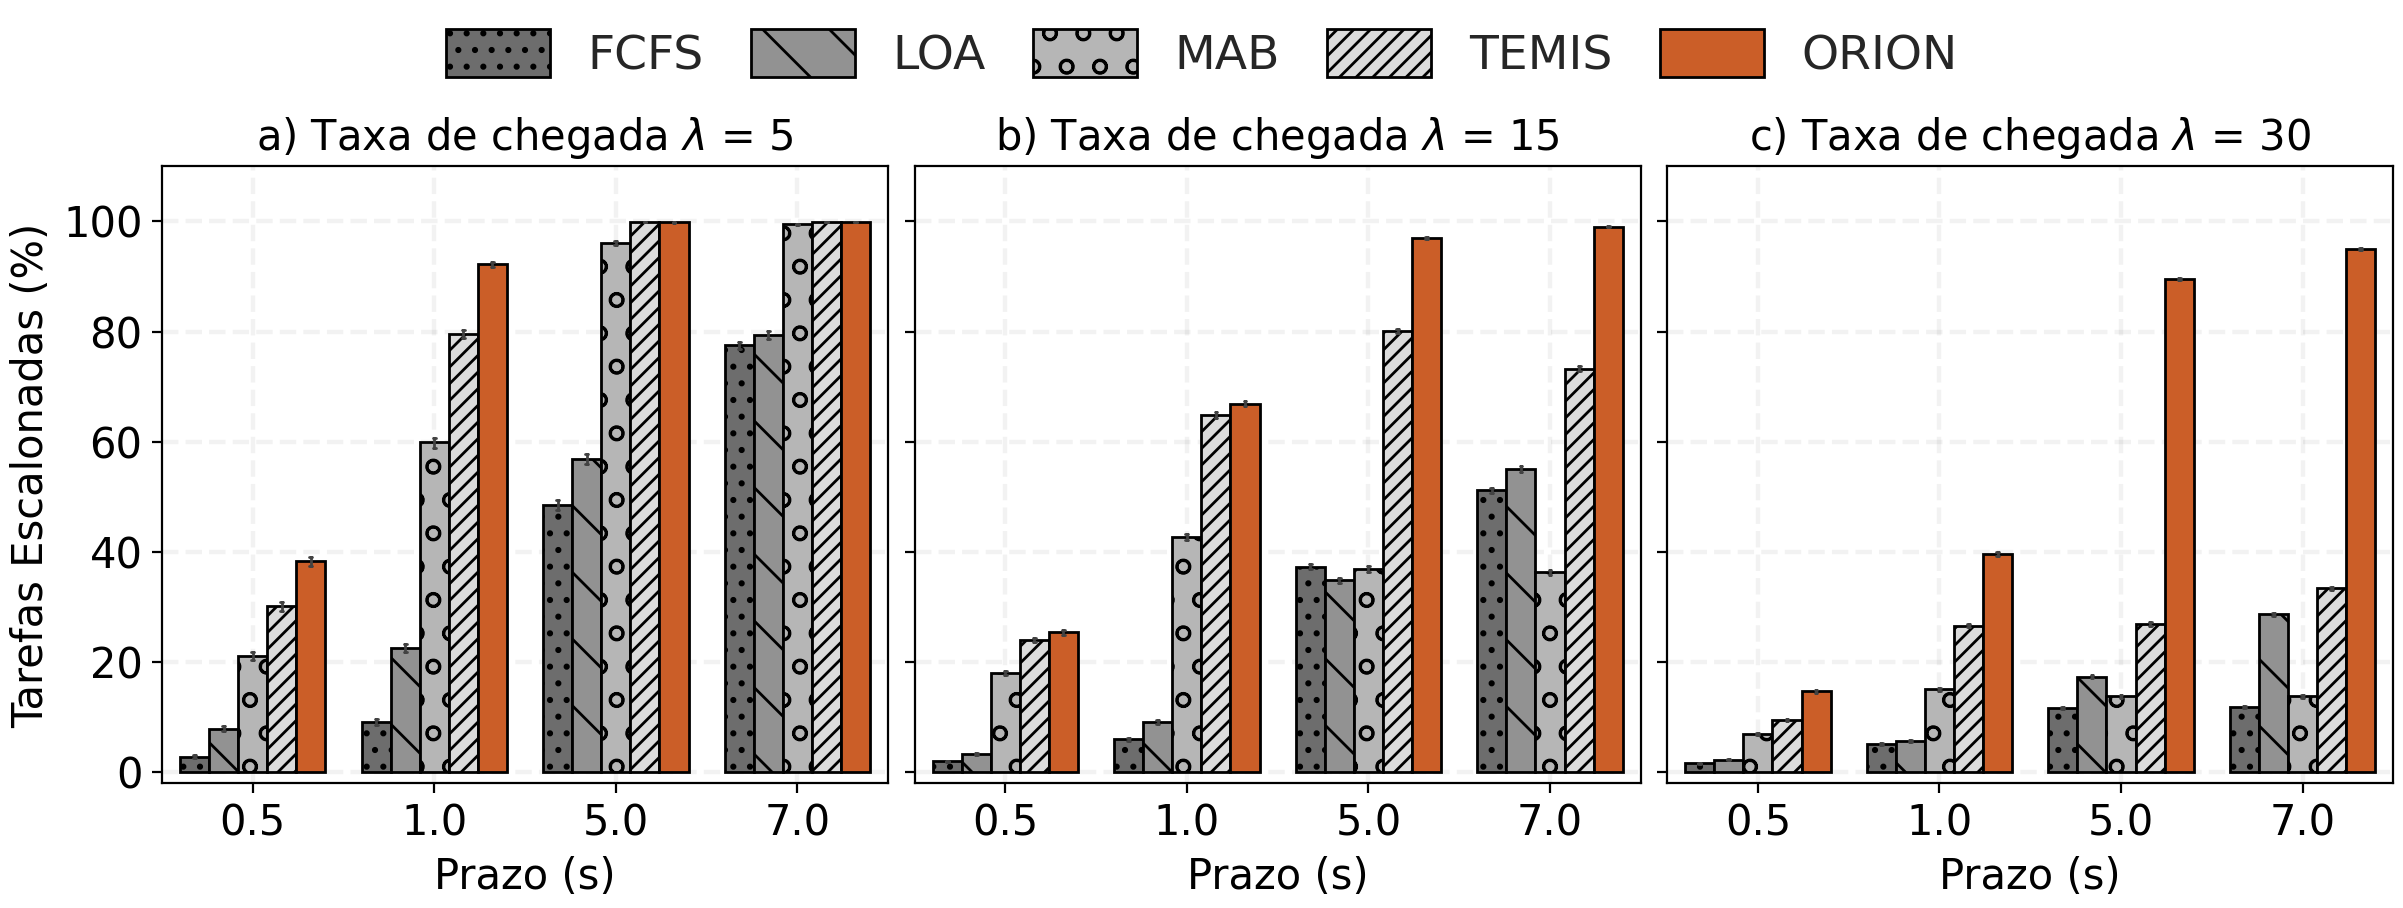
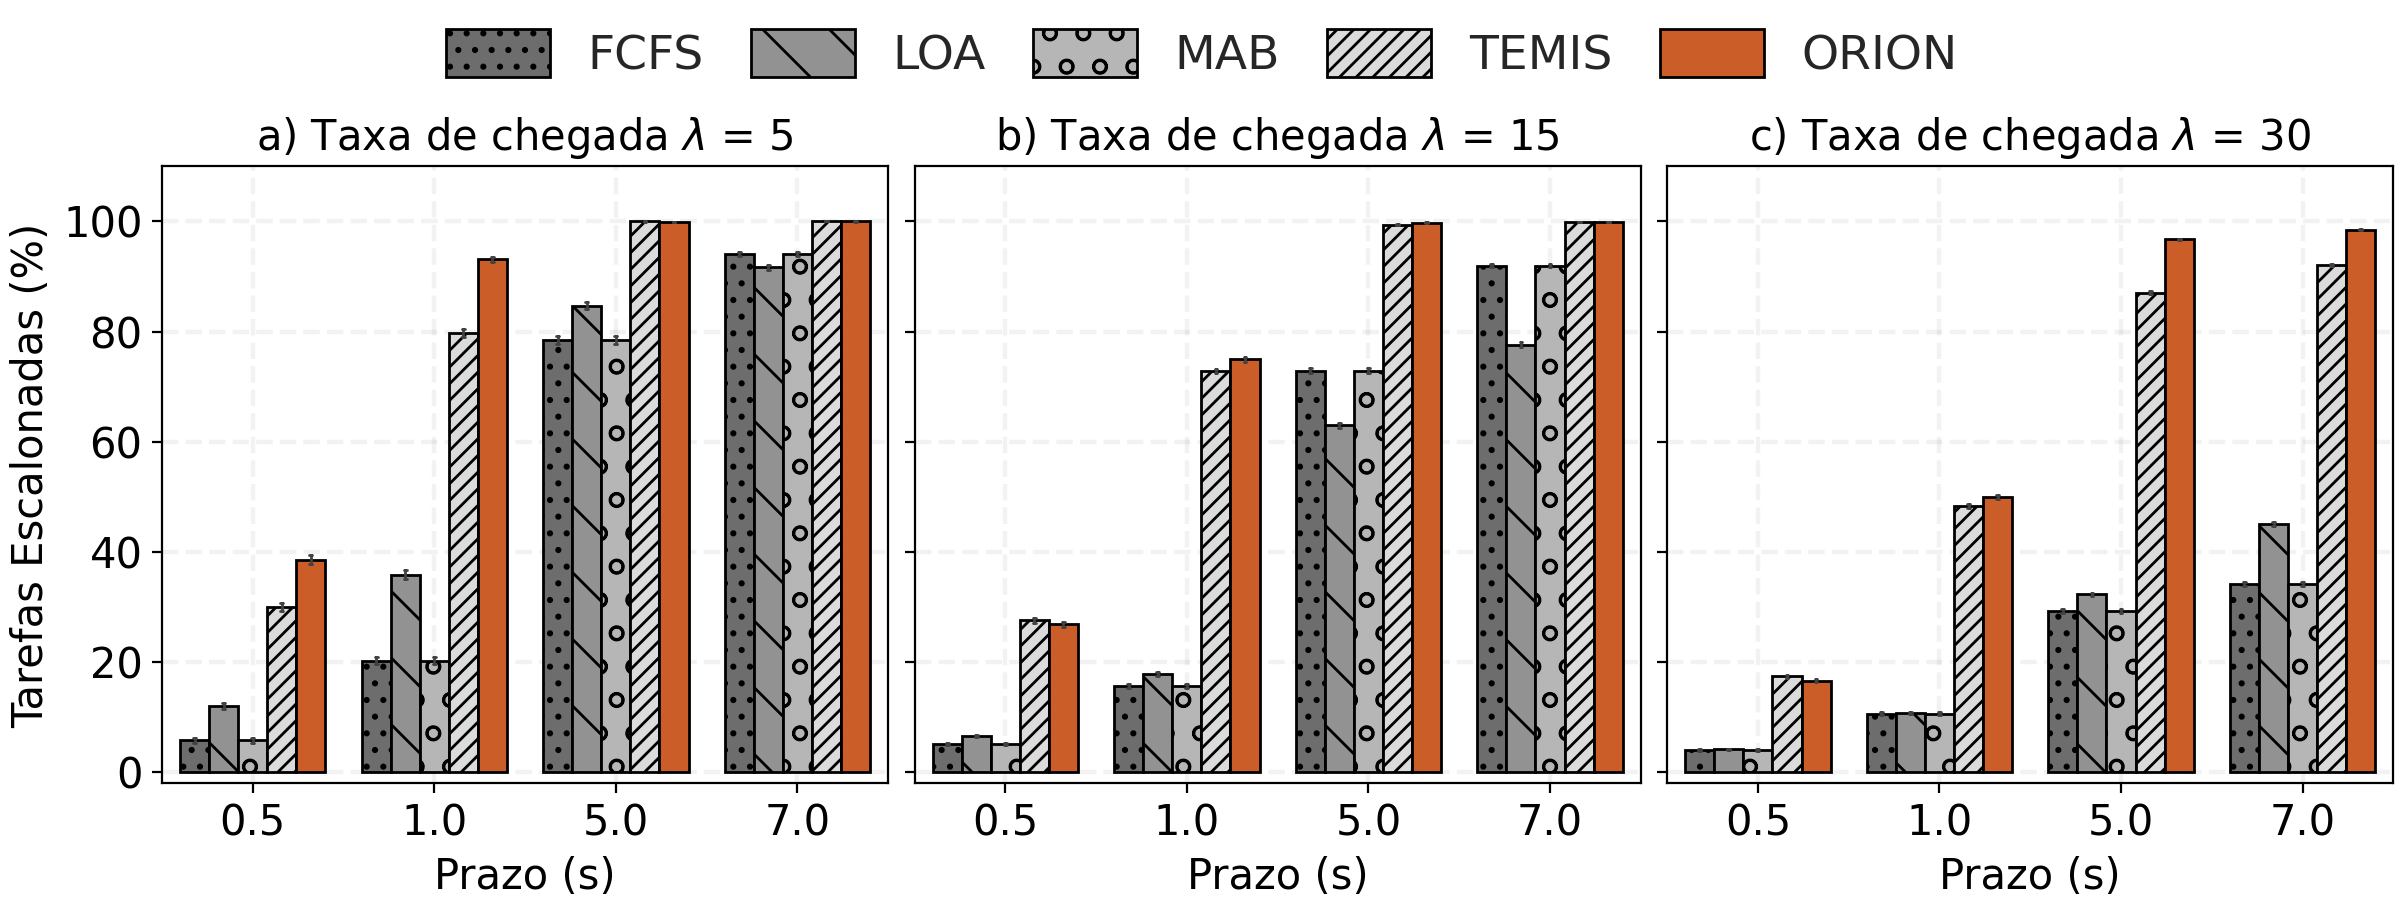
fix: result[id_nuvem] = {} and clouds.update()

diff --git a/system/src/scheduler/TEMIS.py b/system/src/scheduler/TEMIS.py
@@ -129,7 +129,6 @@ def process_tasks(sorted_clouds, tasks_k, tasks, clouds, queue, index):
 			id_nuvem, atualiza_valor = select_item_with_rejection(items, probabilities)
 			clouds.probabilities[id_nuvem] = atualiza_valor
 			# id_nuvem = sorted_clouds[cloud]
-			result[id_nuvem] = {}
 
 			cloud_capacity = local_clouds[id_nuvem]
 			local_result = {}
@@ -162,6 +161,8 @@ def process_tasks(sorted_clouds, tasks_k, tasks, clouds, queue, index):
 			local_result = bincovering.first_fit_decreasing_algorithm(local_pareto_to_bcp, local_tasks_deadline, local_clouds[id_nuvem])
 				
 			if len(local_result) > 0:
+
+				result[id_nuvem] = {}
 
 				# print("LOCAL RESULT")
 				# print(local_result)

diff --git a/system/src/scheduler/LOA.py b/system/src/scheduler/LOA.py
@@ -31,7 +31,6 @@ def run(queue, clouds, tasks):
     for cloud in range(len(sorted_clouds)):
         if len(local_tasks) > 0:
             id_nuvem = sorted_clouds[cloud]
-            result[id_nuvem] = {}
 
             cloud_capacity = local_clouds[id_nuvem]
             local_result = {}
@@ -57,6 +56,9 @@ def run(queue, clouds, tasks):
                     break
 
             if len(local_result) > 0:
+
+                result[id_nuvem] = {}
+
                 processing = management.get_processing_time(local_clouds[id_nuvem], tasks, local_result)
                 for task in processing:
                     local_result[task] = processing[task]

diff --git a/system/src/scheduler/PSO.py b/system/src/scheduler/PSO.py
@@ -33,7 +33,6 @@ def run(queue, clouds, tasks):
         if len(local_tasks) > 0:
 
             id_nuvem = sorted_clouds[cloud]
-            result[id_nuvem] = {}
 
             cloud_capacity = local_clouds[id_nuvem]
             local_result = {}
@@ -62,6 +61,8 @@ def run(queue, clouds, tasks):
             
             if len(local_result) > 0:
 
+                result[id_nuvem] = {}
+                
                 # VERIFICA PROCESSAMENTO E ADICIONA ESTIMATIVA NA TAREFA
                 processing = management.get_processing_time(local_clouds[id_nuvem], tasks, local_result)
                 for task in processing:

diff --git a/system/src/scheduler/MAB.py b/system/src/scheduler/MAB.py
@@ -40,7 +40,6 @@ def run(queue, clouds, tasks):
 		if len(local_tasks) > 0:
 
 			id_nuvem = sorted_clouds[cloud]
-			result[id_nuvem] = {}
 
 			# print("Nuvem:",id_nuvem)
 
@@ -61,11 +60,12 @@ def run(queue, clouds, tasks):
 				if local_tasks[task] <= cloud_capacity:
 					local_result[task] = -1
 					cloud_capacity -= local_tasks[task]
-					break
 				else:
 					break
 			
 			if len(local_result) > 0:
+
+				result[id_nuvem] = {}
 
 				# VERIFICA PROCESSAMENTO E ADICIONA ESTIMATIVA NA TAREFA
 				processing = management.get_processing_time(local_clouds[id_nuvem], tasks, local_result)

diff --git a/system/src/scheduler/FCFS.py b/system/src/scheduler/FCFS.py
@@ -36,7 +36,6 @@ def run(queue, clouds, tasks):
 		if len(local_tasks) > 0:
 
 			id_nuvem = sorted_clouds[cloud]
-			result[id_nuvem] = {}
 
 			cloud_capacity = local_clouds[id_nuvem]
 			local_result = {}
@@ -55,6 +54,8 @@ def run(queue, clouds, tasks):
 					break
 			
 			if len(local_result) > 0:
+
+				result[id_nuvem] = {}
 
 				# VERIFICA PROCESSAMENTO E ADICIONA ESTIMATIVA NA TAREFA
 				processing = management.get_processing_time(local_clouds[id_nuvem], tasks, local_result)

diff --git a/system/src/scheduling_manager.py b/system/src/scheduling_manager.py
@@ -218,7 +218,8 @@ class SchedulingManager:
 				cloud_cpu_load += self.task_size
 
 			# ATUALIZA INFORMACOES DA NUVEM
-			clouds.update(cloud, self.resource_usage[cloud], 'add')
+			# Atualiza o uso de recursos da nuvem com base na carga de CPU calculada na rodada atual
+			clouds.update(cloud, self.resource_now[cloud], 'add')
 
 	def update_vc_resources(self):
 		"""
